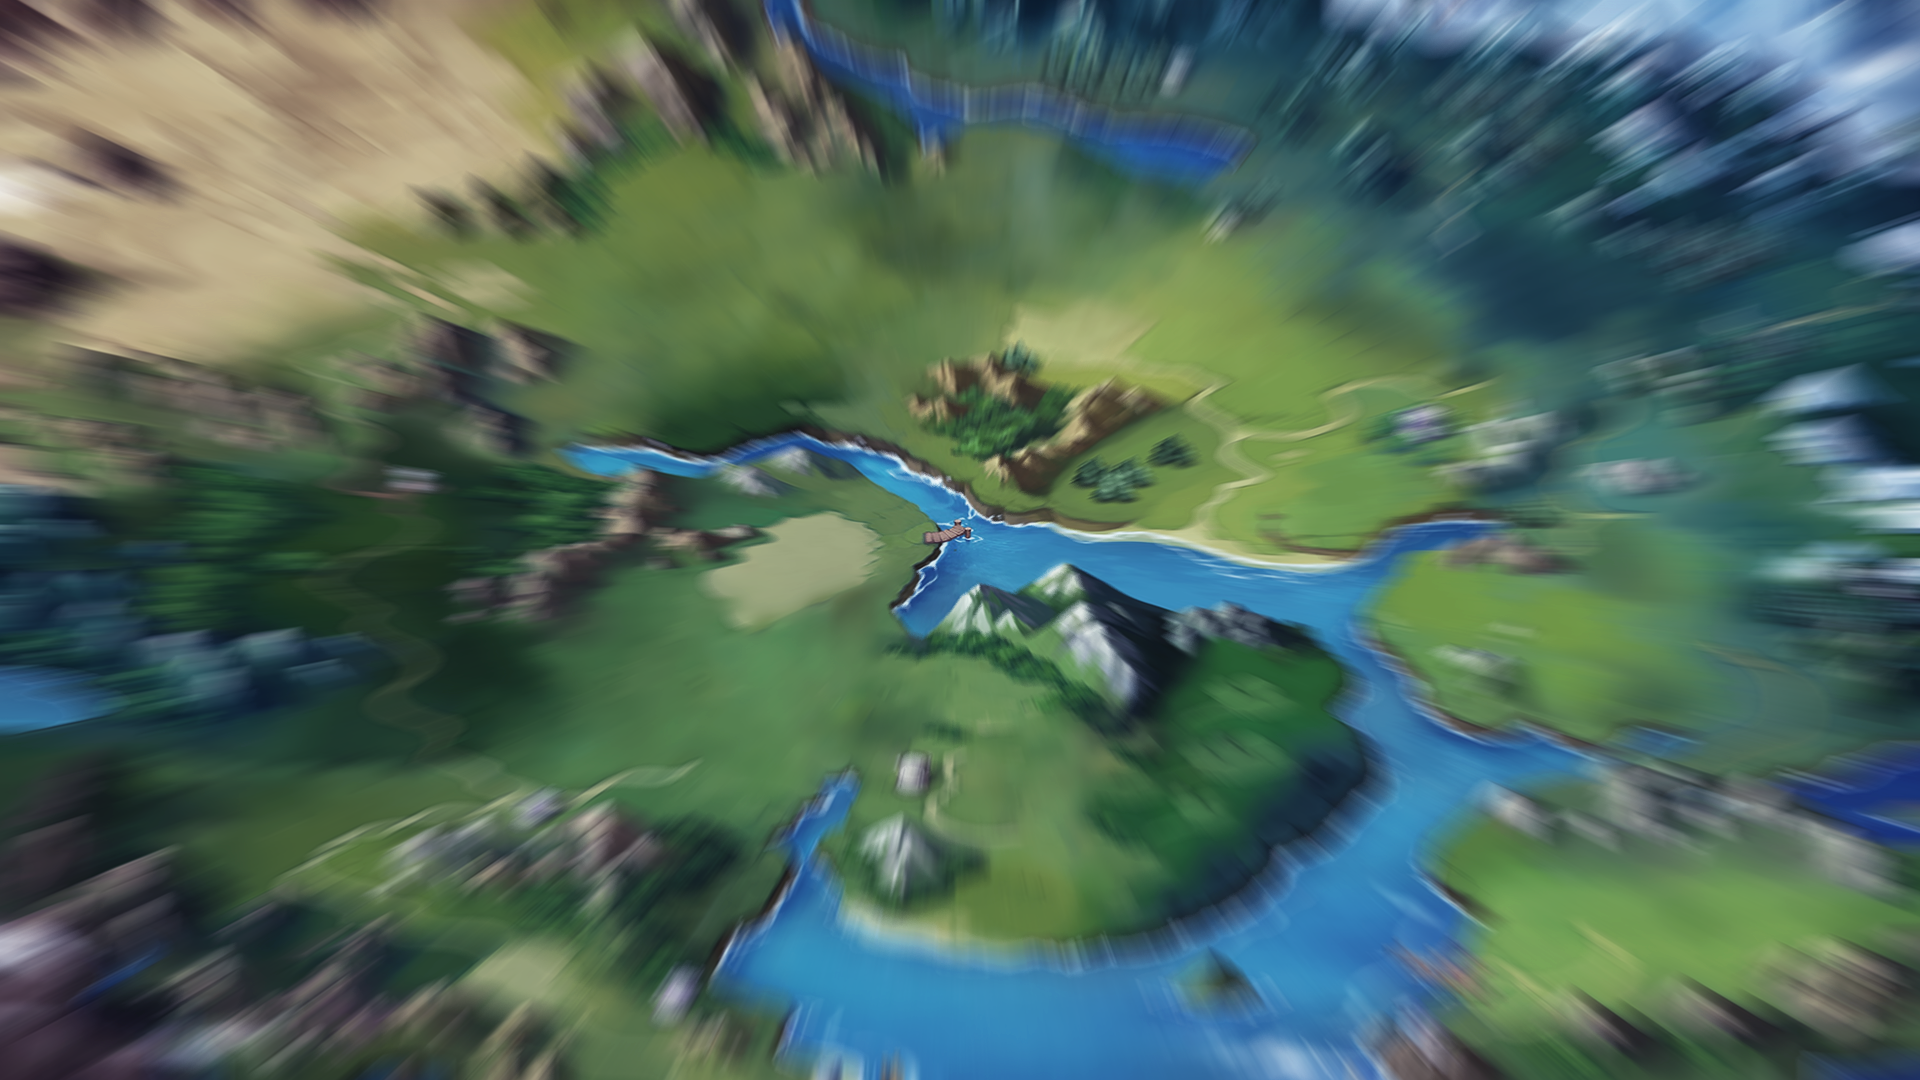
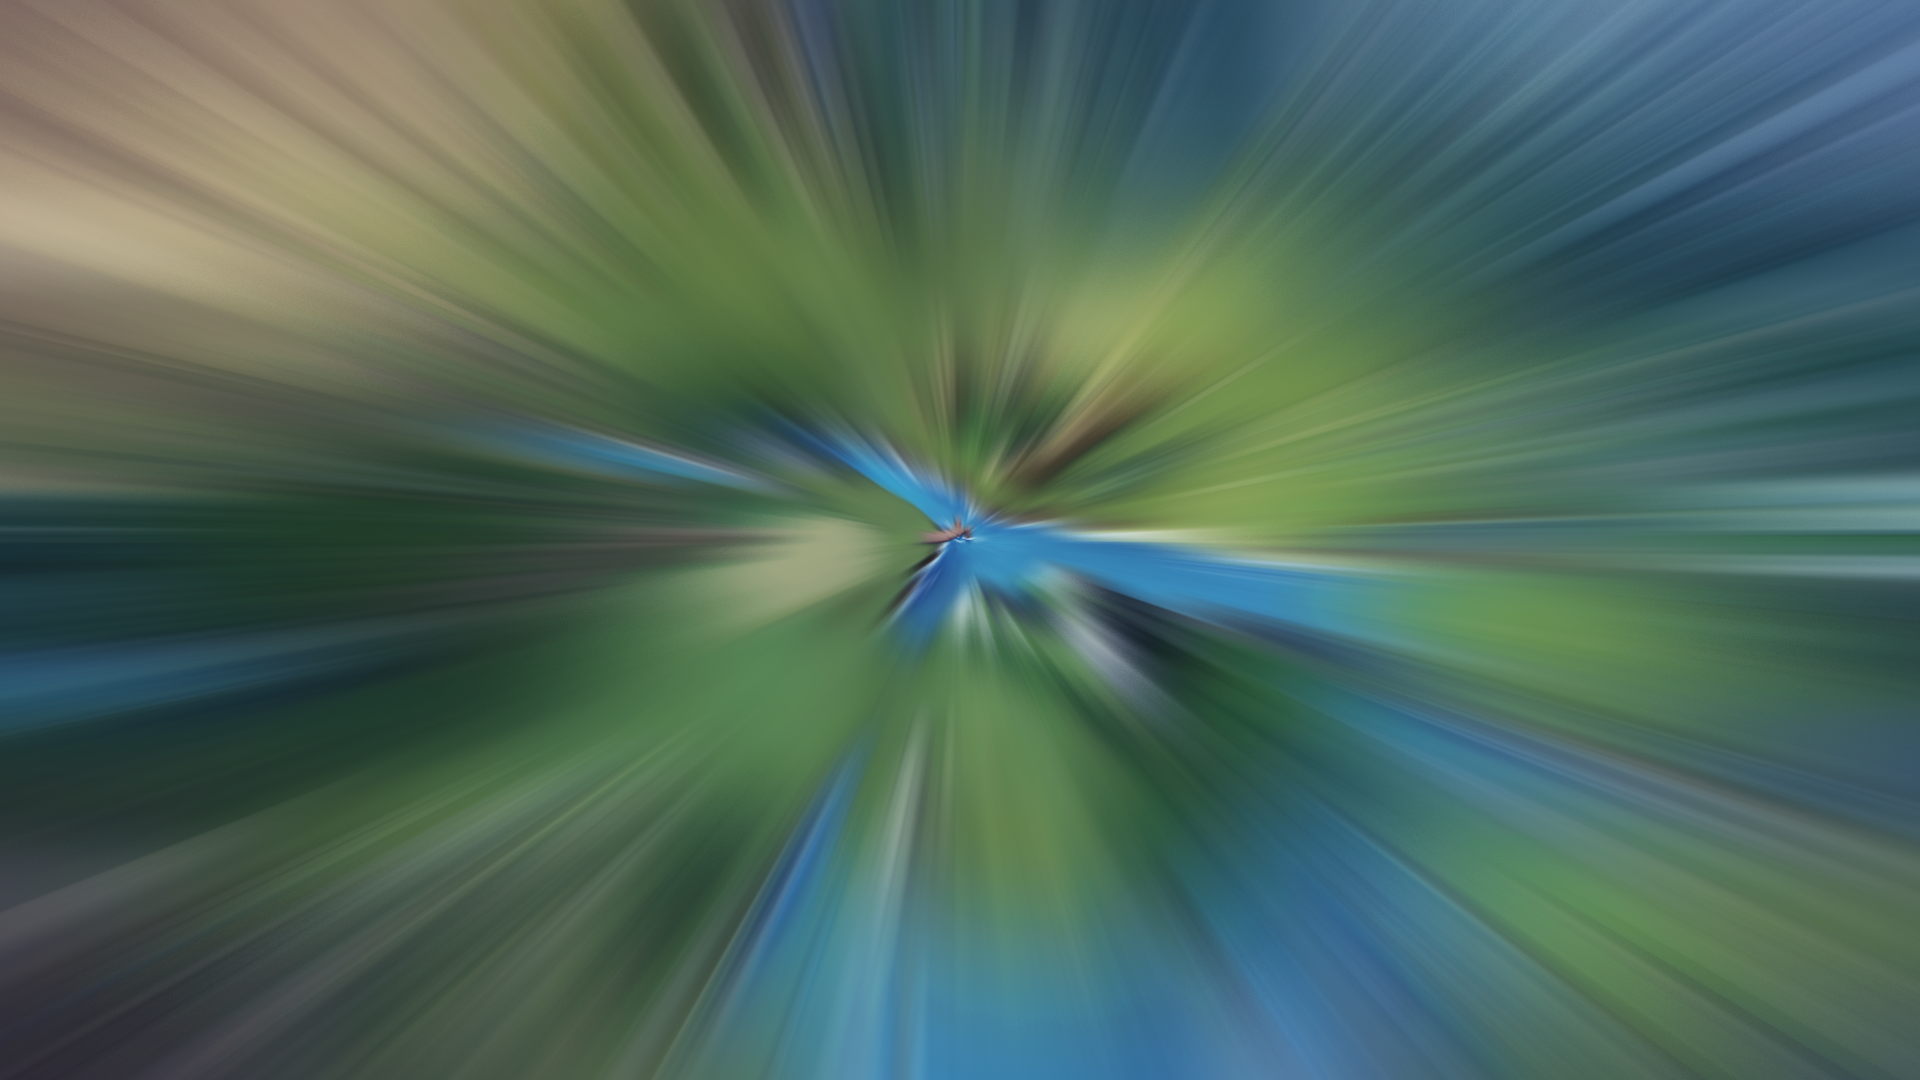
stronger blur

diff --git a/src/scenes/LevelMap.ts b/src/scenes/LevelMap.ts
@@ -4,7 +4,7 @@ import { Constants } from '../utils/Constants';
 
 export default class LevelMap extends BaseScene {
     private zoomTime = 1000;
-    private zoomAmount = 0.3;
+    private zoomAmount = 0.4;
     
     constructor() {
         super('LevelMapScene');
